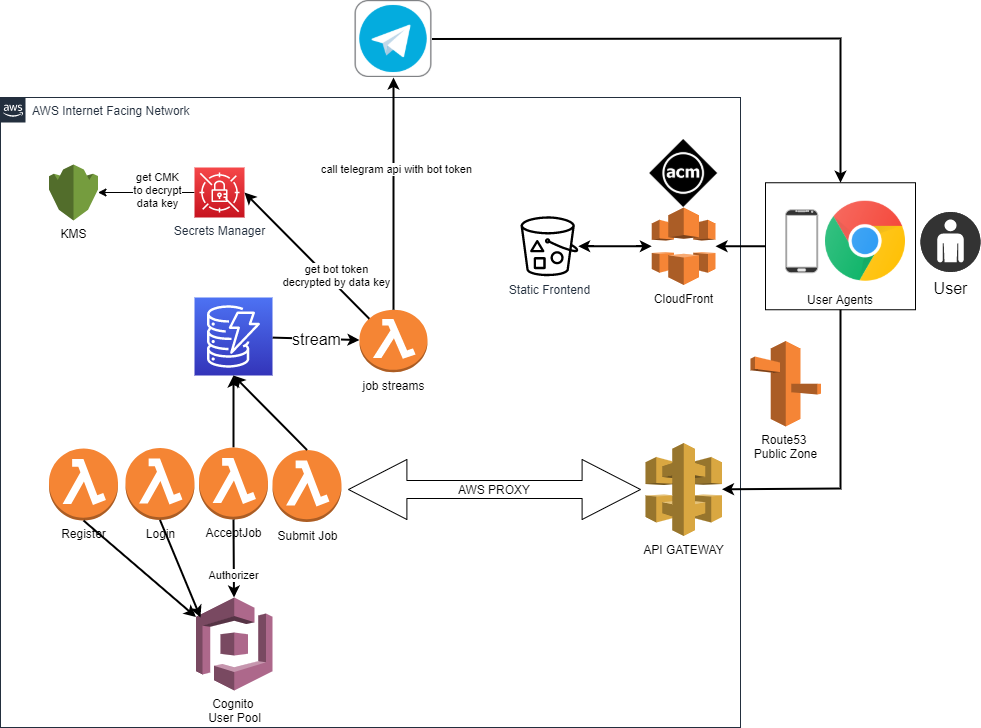
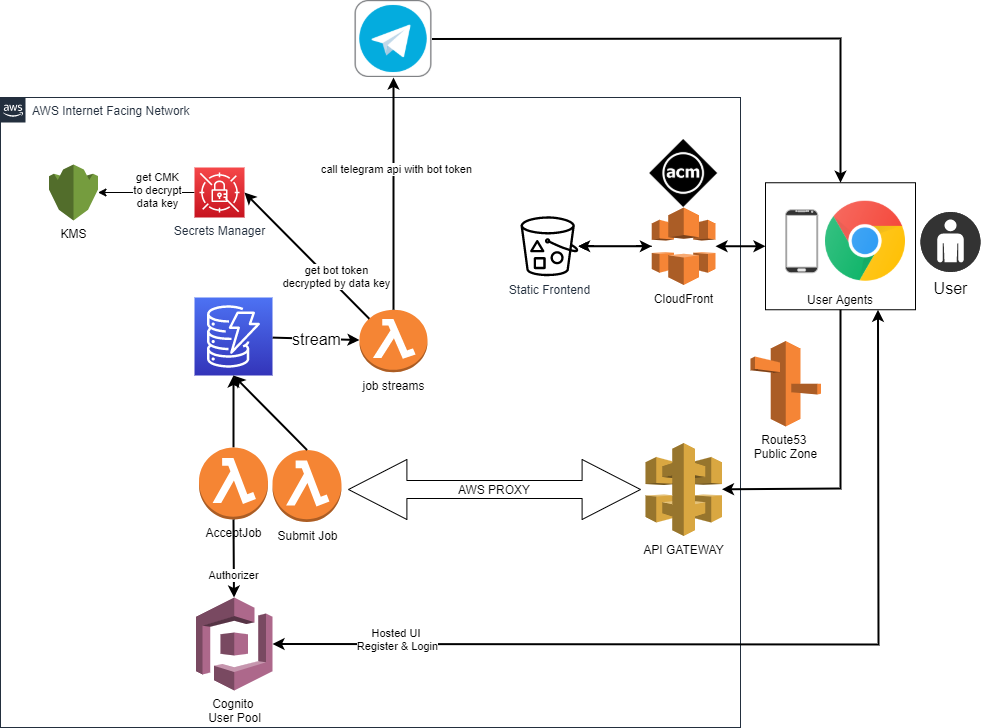
update readme with correct archi diagram. remove .serverless dir

diff --git a/serverless/cdk/lib/backend-stack.ts b/serverless/cdk/lib/backend-stack.ts
@@ -230,7 +230,6 @@ export class BackendStack extends cdk.Stack {
       statusCode: "401",
       responseHeaders: {
         "Access-Control-Allow-Origin": "'*'",
-        // 'test-key': "'test-value'"
       },
       templates: {
         "application/json":

diff --git a/README.md b/README.md
@@ -1,13 +1,20 @@
-# Bickup 
+# Bickup
+
 Bickup is a job posting and fulfilment platform where users posts job requests to be fulfilled by service providers.
 
 We use Bickup as an example of one such service which provides bicycles transportation services. However, this can be easily generalised to serve other kinds of services.
 
-1. User submit job requests
-2. Job alerts into telegram chat
+1. User submit job requests with the invocation of Submit Job Lambda
+   - Lambda writes a record into Dynamo Table and triggers a stream event
+2. Job alerts new job into telegram chat where all drivers are in
+   - Jobs stream lambda gets called by Dynamo Table's stream event source
+   - Lambda gets bot token from Secrets Manager in order to send messages
 3. Driver views details of job and accepts job (requires provider login)
+   - Drivers required to register and login on Cognito Hosted UI
+   - Cognito redirects and issues token
+   - Accept job API is secured by APIG Cognito Authorizer (requires token)
 4. Requester contact information revealed
-5. Arrangement occur outside of platform 
+5. Arrangement occur outside of platform
 6. Driver marks job as completed
 
 ## Architecture
@@ -17,42 +24,50 @@ We use Bickup as an example of one such service which provides bicycles transpor
 ## Tech Stack
 
 ### Frontend
-Developed in GatsbyJS and served from S3.
+
+Gatsby SSG
 
 ### Backend
+
 NodeJs running on Lambdas
 
 ### Infra
+
 AWS CDK
 APIG, Lambdas, Cognito User Pool, DyanmoDB and streams. S3, Secrets Manager and KMS, APIG cognito authorizer
 
 ## Development
-npm run develop
+Gatsby frontend lives in the root dir of project.
+CDK is found in serverless/cdk
+
+#### Frontend Gatsby
+npm run develop in root dir of project
+#### Backend
+cd into serverless/cdk and run cdk deploy
 
 ## Deployment
+
 Generate build for frontend
+
 - Run npm run build in root dir of project
 
-Generate build for backend lambdas and deploy the entire system (Build from frontend + Backend lambdas + Changes in infra if any)
+Generate build CDK in Typescript (Deploys build from frontend + Backend lambdas + Changes in infra if any)
+
 - cd into serverless/cdk
 - npm run deploy:dev
-    1. Compiles typescript in lambdas to JS 
-    2. Package assets referenced by backend lambdas to S3, generate Cloud Formation template and deploy
-
-Ensure aws credentials are set, then
-
-1. npm run build
-2. npm run sls:local -- deploy
-
+  - Builds CDK in Typescript to Javascript and deploys 2 CDK stacks 
+    1. Frontend Stack deploys generated build from frontend into S3
+    2. Backend Stack deploys all other AWS resources (refer to archi above)
 
 ---
+
 ## References
 
 ### Bickup Web App
+
 https://d3bojbdeh120he.cloudfront.net/
 
 ### Telegram Job Chat
+
 https://t.me/joinchat/-pTNF3FtpQQ0ZGM1
 
-### Gitlab CICD
-https://about.gitlab.com/blog/2021/02/05/ci-deployment-and-environments/
